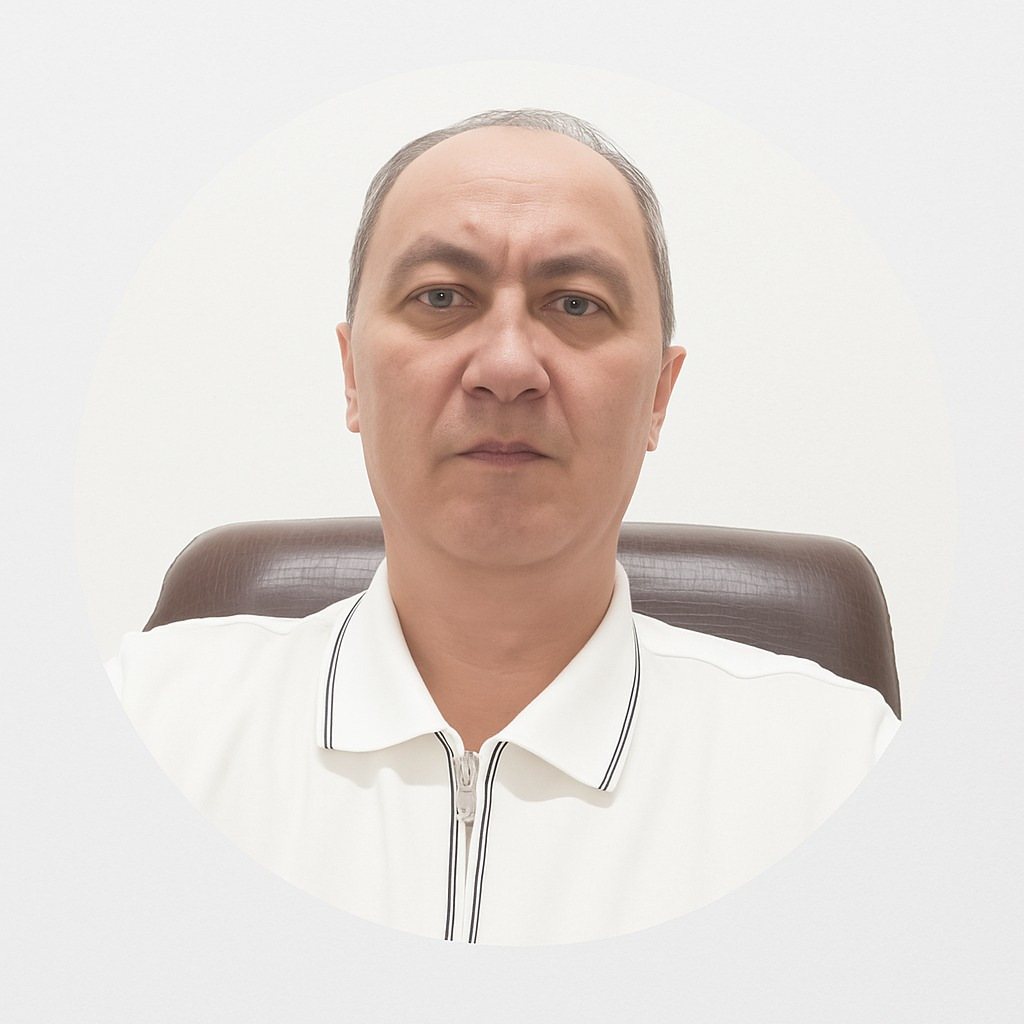
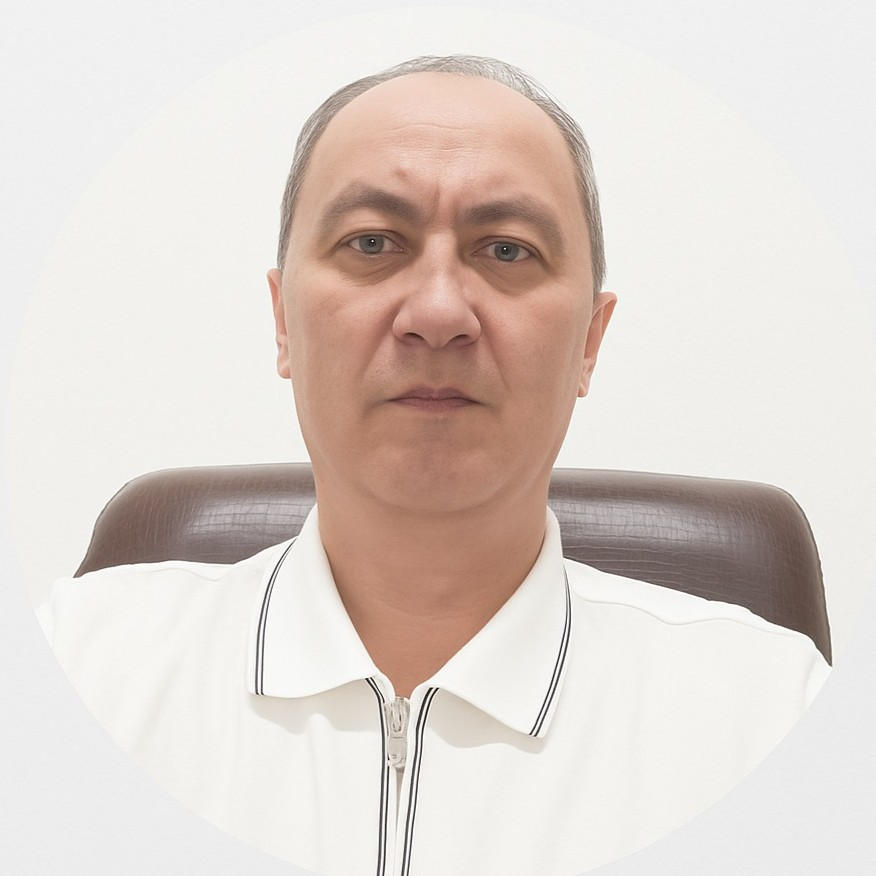
retake

Changed region(s): [[0.0925, 0.0616, 0.9555, 1.0]]

diff --git a/src/widgets/Header/ui/Header.module.scss b/src/widgets/Header/ui/Header.module.scss
@@ -104,6 +104,57 @@
 		padding: 8px 12px;
 		border-color: $light-blue-color;
 		font-weight: 600;
+		position: relative;
+		overflow: hidden;
+		transition: all 0.3s ease;
+		background: linear-gradient(135deg, rgba(255, 215, 0, 0.1) 0%, rgba(255, 193, 7, 0.1) 100%);
+		border: 2px solid;
+		border-image: linear-gradient(135deg, #ffd700, #ffc107) 1;
+		color: #ffd700 !important;
+		
+		&::before {
+			content: '⚡';
+			position: absolute;
+			left: -20px;
+			top: 50%;
+			transform: translateY(-50%);
+			transition: left 0.3s ease;
+			opacity: 0;
+		}
+		
+		&::after {
+			content: '';
+			position: absolute;
+			top: 0;
+			left: 0;
+			right: 0;
+			bottom: 0;
+			background: linear-gradient(135deg, #ffd700 0%, #ffc107 100%);
+			opacity: 0;
+			transition: opacity 0.3s ease;
+			z-index: -1;
+		}
+		
+		&:hover {
+			transform: translateY(-2px);
+			color: #1a1f2e !important;
+			box-shadow: 
+				0 8px 25px rgba(255, 215, 0, 0.3),
+				0 0 30px rgba(255, 193, 7, 0.2);
+			
+			&::before {
+				left: 8px;
+				opacity: 1;
+			}
+			
+			&::after {
+				opacity: 1;
+			}
+		}
+		
+		&:active {
+			transform: translateY(0);
+		}
 	}
 }
 
@@ -213,6 +264,109 @@
 		min-width: 118px;
 		padding: 16px 8px !important;
 		height: 40px;
+		position: relative;
+		overflow: hidden;
+		font-weight: 600 !important;
+		letter-spacing: 0.5px;
+		transition: all 0.3s cubic-bezier(0.4, 0, 0.2, 1);
+		border: 2px solid transparent;
+		background-clip: padding-box;
+		
+		// Стиль для кнопки "Войти"
+		&[href*="login"] {
+			background: linear-gradient(135deg, #3b82f6 0%, #1d4ed8 100%);
+			color: white !important;
+			box-shadow: 
+				0 4px 15px rgba(59, 130, 246, 0.3),
+				0 0 20px rgba(59, 130, 246, 0.2);
+			
+			&::before {
+				content: '';
+				position: absolute;
+				top: 0;
+				left: -100%;
+				width: 100%;
+				height: 100%;
+				background: linear-gradient(90deg, transparent, rgba(255, 255, 255, 0.3), transparent);
+				transition: left 0.5s ease;
+			}
+			
+			&:hover {
+				transform: translateY(-2px);
+				box-shadow: 
+					0 8px 25px rgba(59, 130, 246, 0.4),
+					0 0 30px rgba(59, 130, 246, 0.3);
+				background: linear-gradient(135deg, #2563eb 0%, #1e40af 100%);
+				
+				&::before {
+					left: 100%;
+				}
+			}
+			
+			&:active {
+				transform: translateY(0);
+			}
+		}
+		
+		// Стиль для кнопки "Регистрация"
+		&[href*="register"] {
+			background: rgba(59, 130, 246, 0.1);
+			border: 2px solid #3b82f6;
+			border-radius: 8px;
+			color: #3b82f6 !important;
+			backdrop-filter: blur(10px);
+			position: relative;
+			overflow: hidden;
+			
+			&::before {
+				content: '';
+				position: absolute;
+				top: -2px;
+				left: -2px;
+				right: -2px;
+				bottom: -2px;
+				background: linear-gradient(135deg, #3b82f6, #06b6d4);
+				border-radius: 10px;
+				opacity: 0;
+				transition: opacity 0.3s ease;
+				z-index: -2;
+			}
+			
+			&::after {
+				content: '';
+				position: absolute;
+				top: 0;
+				left: 0;
+				right: 0;
+				bottom: 0;
+				background: linear-gradient(135deg, #3b82f6 0%, #06b6d4 100%);
+				opacity: 0;
+				transition: opacity 0.3s ease;
+				z-index: -1;
+				border-radius: 6px;
+			}
+			
+			&:hover {
+				transform: translateY(-2px);
+				color: white !important;
+				border-color: transparent;
+				box-shadow: 
+					0 8px 25px rgba(59, 130, 246, 0.3),
+					0 0 30px rgba(6, 182, 212, 0.2);
+				
+				&::before {
+					opacity: 1;
+				}
+				
+				&::after {
+					opacity: 1;
+				}
+			}
+			
+			&:active {
+				transform: translateY(0);
+			}
+		}
 
 		@media (max-width: 1370px) {
 			padding: 8px !important;

diff --git a/src/widgets/Footer/ui/Footer.module.scss b/src/widgets/Footer/ui/Footer.module.scss
@@ -4,16 +4,22 @@
 	width: 100%;
 	position: relative;
 	color: #ffffff;
-	background-color: #1e2329;
+	background: linear-gradient(135deg, #0a0f1a 0%, #1a1f2e 25%, #2a3441 50%, #1a1f2e 75%, #0a0f1a 100%);
+	
 	&::before {
 		content: '';
 		position: absolute;
 		top: 0;
 		left: 0;
 		right: 0;
-		height: 1px;
-		width: 100%;
-		background-color: #30373f;
+		height: 3px;
+		background: linear-gradient(90deg, 
+			transparent 0%, 
+			#027dff 20%, 
+			#00f5ff 50%, 
+			#027dff 80%, 
+			transparent 100%);
+		animation: topGlow 3s ease-in-out infinite;
 	}
 }
 
@@ -31,17 +37,58 @@
 	
 	a {
 		color: #ffffff;
-		transition: color 0.2s ease;
+		padding: 8px 16px;
+		border-radius: 6px;
+		transition: all 0.3s cubic-bezier(0.4, 0, 0.2, 1);
+		position: relative;
+		overflow: hidden;
+		border: 1px solid transparent;
+		
+		&::before {
+			content: '';
+			position: absolute;
+			top: 0;
+			left: -100%;
+			width: 100%;
+			height: 100%;
+			background: linear-gradient(90deg, transparent, rgba(59, 130, 246, 0.3), transparent);
+			transition: left 0.5s ease;
+		}
 		
 		&:hover {
 			color: #ffffff;
+			background: rgba(59, 130, 246, 0.1);
+			border-color: rgba(59, 130, 246, 0.3);
+			transform: translateY(-2px);
+			box-shadow: 0 4px 15px rgba(59, 130, 246, 0.2);
+			
+			&::before {
+				left: 100%;
+			}
 		}
 	}
 }
 
 .lendingFooter {
 	padding-top: 34px;
-	background-color: #1e2329;
+	background: linear-gradient(135deg, #0a0f1a 0%, #1a1f2e 25%, #2a3441 50%, #1a1f2e 75%, #0a0f1a 100%);
+	position: relative;
+	
+	&::before {
+		content: '';
+		position: absolute;
+		top: 0;
+		left: 0;
+		right: 0;
+		height: 3px;
+		background: linear-gradient(90deg, 
+			transparent 0%, 
+			#027dff 20%, 
+			#00f5ff 50%, 
+			#027dff 80%, 
+			transparent 100%);
+		animation: topGlow 3s ease-in-out infinite;
+	}
 
 	.lendingTop {
 		margin-bottom: 46px;
@@ -160,11 +207,50 @@
 		
 		a {
 			color: #ffffff;
-			transition: color 0.2s ease;
+			padding: 8px 16px;
+			border-radius: 6px;
+			transition: all 0.3s cubic-bezier(0.4, 0, 0.2, 1);
+			position: relative;
+			overflow: hidden;
+			border: 1px solid transparent;
+			
+			&::before {
+				content: '';
+				position: absolute;
+				top: 0;
+				left: -100%;
+				width: 100%;
+				height: 100%;
+				background: linear-gradient(90deg, transparent, rgba(59, 130, 246, 0.3), transparent);
+				transition: left 0.5s ease;
+			}
 			
 			&:hover {
 				color: #ffffff;
+				background: rgba(59, 130, 246, 0.1);
+				border-color: rgba(59, 130, 246, 0.3);
+				transform: translateY(-2px);
+				box-shadow: 0 4px 15px rgba(59, 130, 246, 0.2);
+				
+				&::before {
+					left: 100%;
+				}
 			}
 		}
+	}
+}
+
+@keyframes topGlow {
+	0% {
+		opacity: 0.6;
+		transform: scaleX(1);
+	}
+	50% {
+		opacity: 1;
+		transform: scaleX(1.1);
+	}
+	100% {
+		opacity: 0.6;
+		transform: scaleX(1);
 	}
 }
